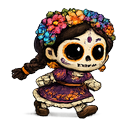
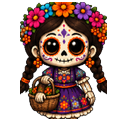
Wire locked Pepita walks from incoming sheets.
Slice down/up/right sheets into 128px 8-frame cycles, mirror right for left,
refresh idle from the front pose, and point character.json at the new frames.

diff --git a/docs/FINISH_PLAN.md b/docs/FINISH_PLAN.md
@@ -4,7 +4,7 @@
 > Soft launch = Phase A. Full game ≈ through Phase H.  
 > Check boxes as you go. Keep this file the source of truth in git.
 
-**Current build target:** `1.0.0+23` (plaza prototype on TestFlight)  
+**Current build target:** `1.0.0+24` (plaza prototype on TestFlight)  
 **Branch:** `cursor/pocket-god-village-foundation-b7dc`
 
 ---
@@ -46,8 +46,8 @@
 - [ ] 6. Soft-launch TestFlight / App Store build from polished plaza
 
 ### Character art (locked walks — Aseprite, not ChatGPT sheets)
-- [ ] 7. Pepita walk down / up / left / right (locked model)
-- [ ] 8. Pepita L/R are true mirrors; wire into `character.json`
+- [x] 7. Pepita walk down / up / left / right (locked model)
+- [x] 8. Pepita L/R are true mirrors; wire into `character.json`
 - [ ] 9. Abuela Rosa locked walks
 - [ ] 10. Xolo locked walks
 - [ ] 11. Gato locked walks
